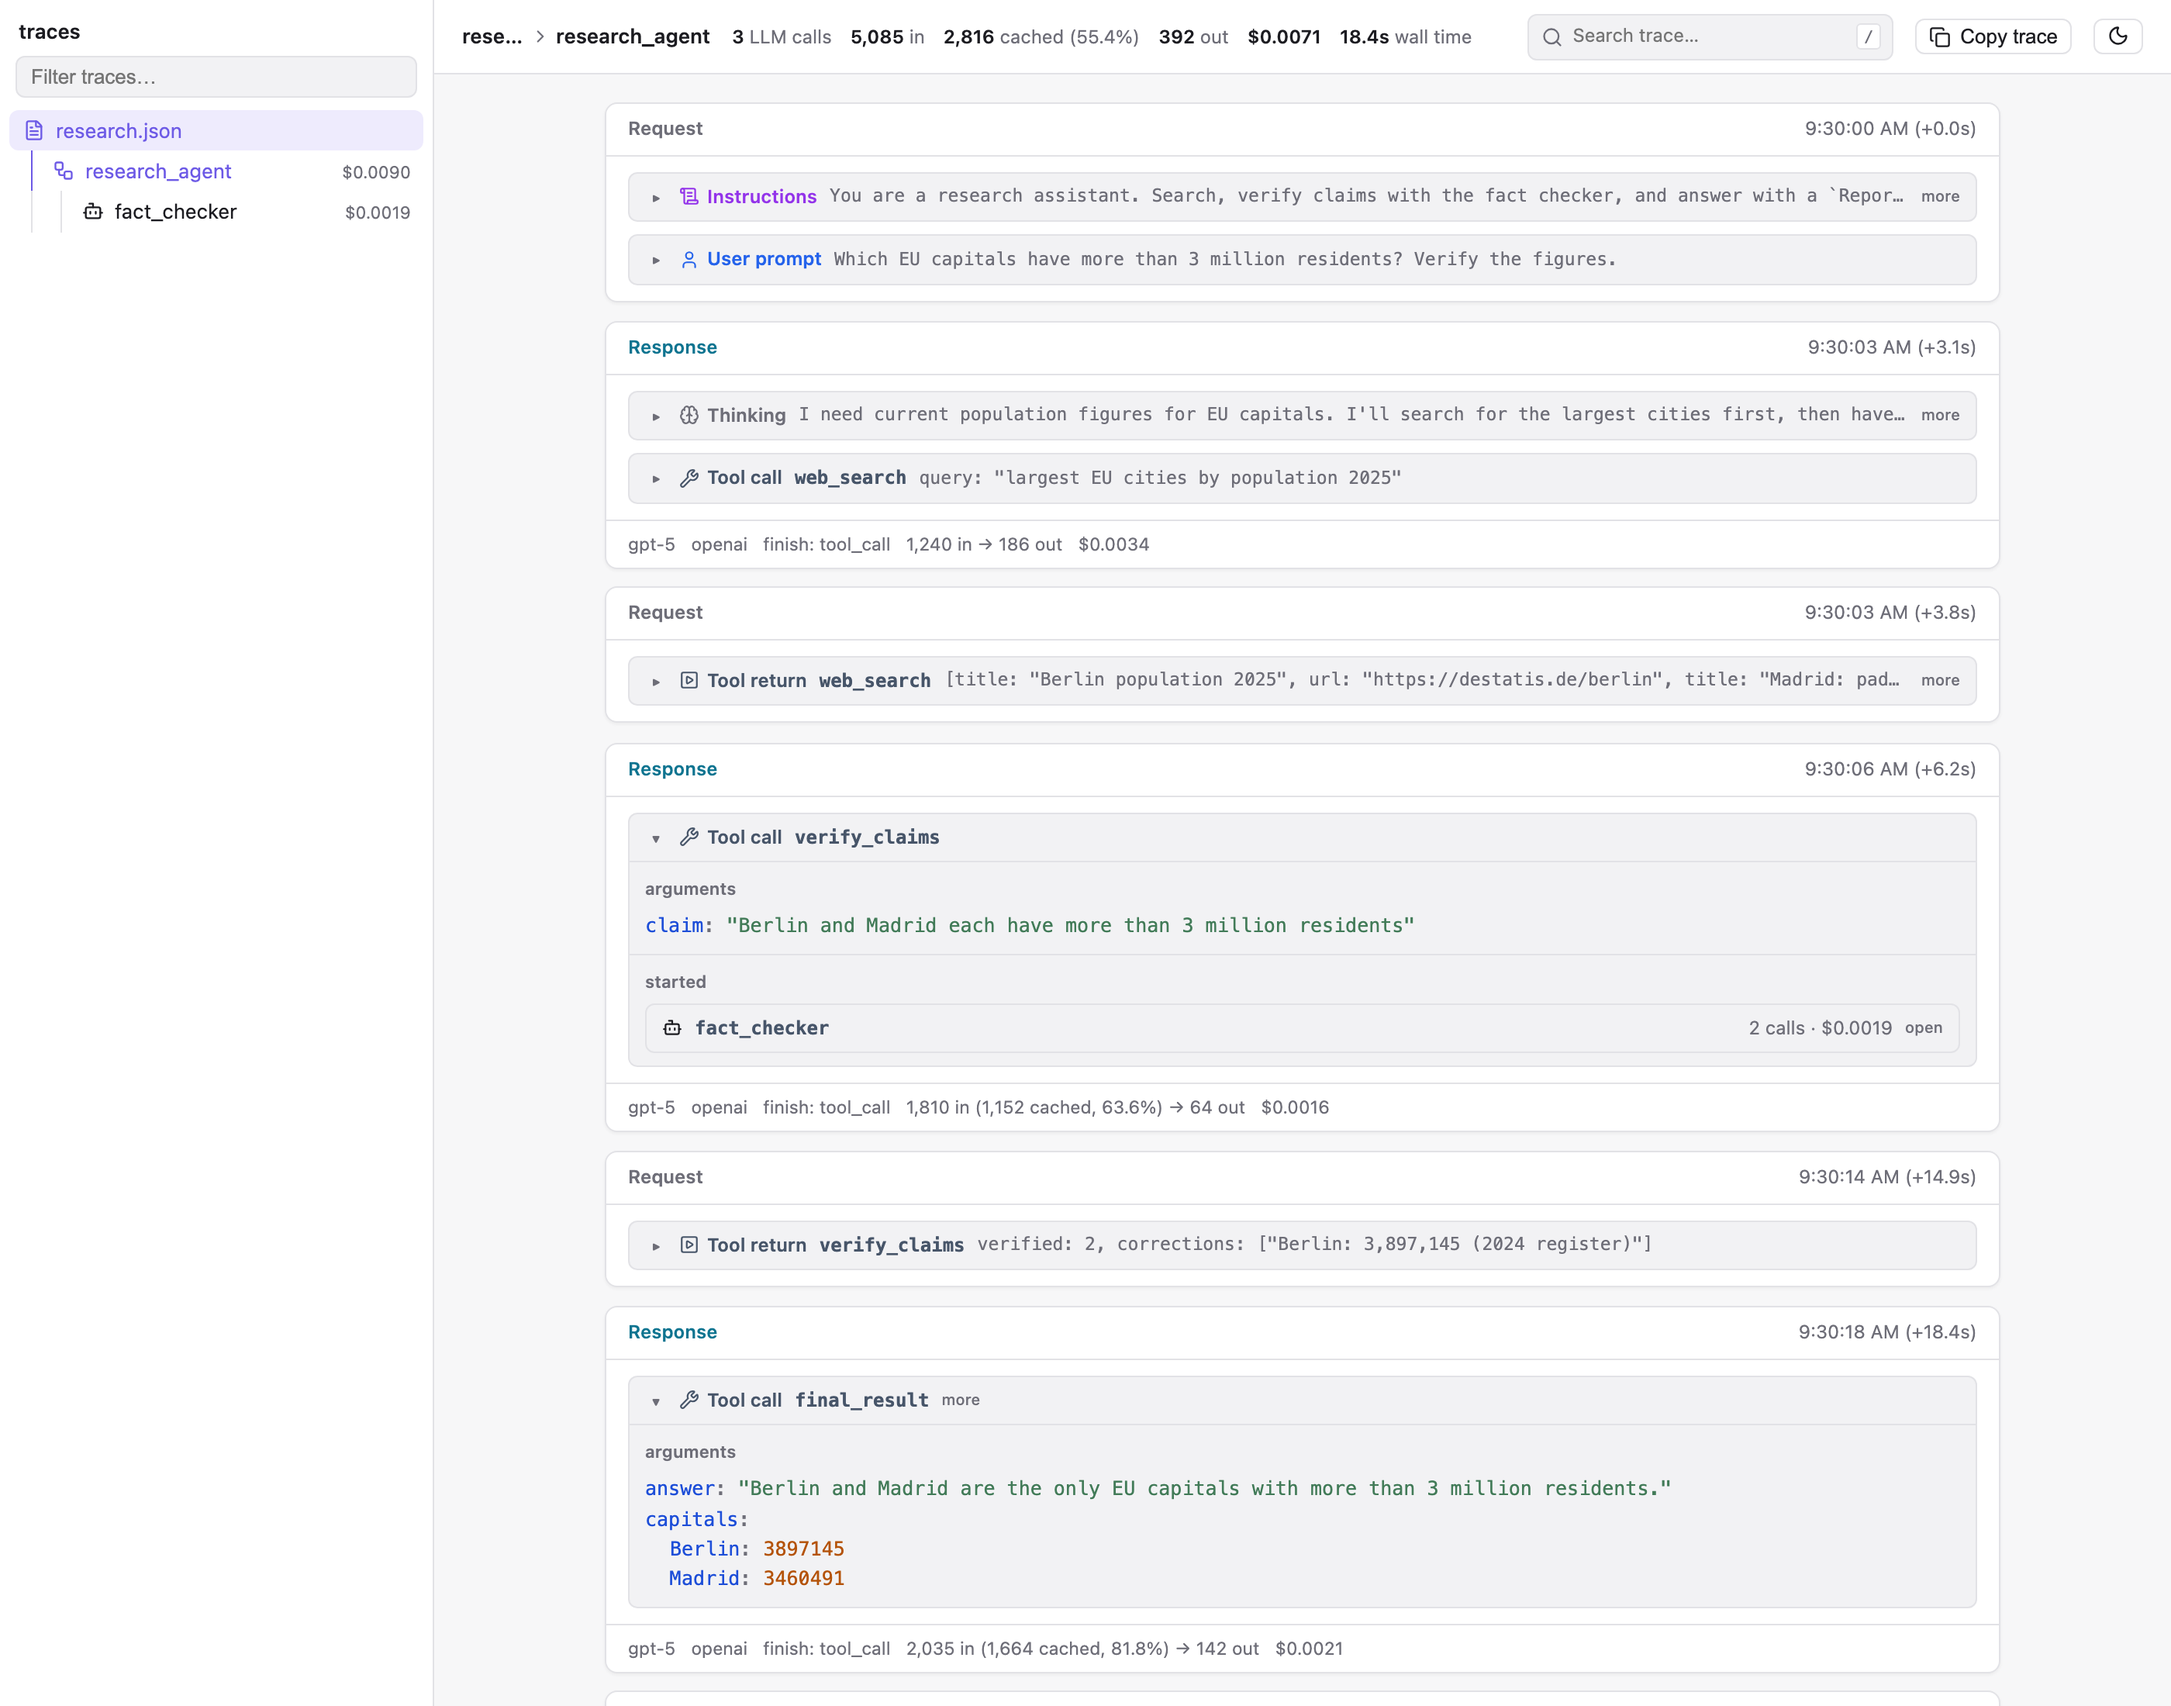
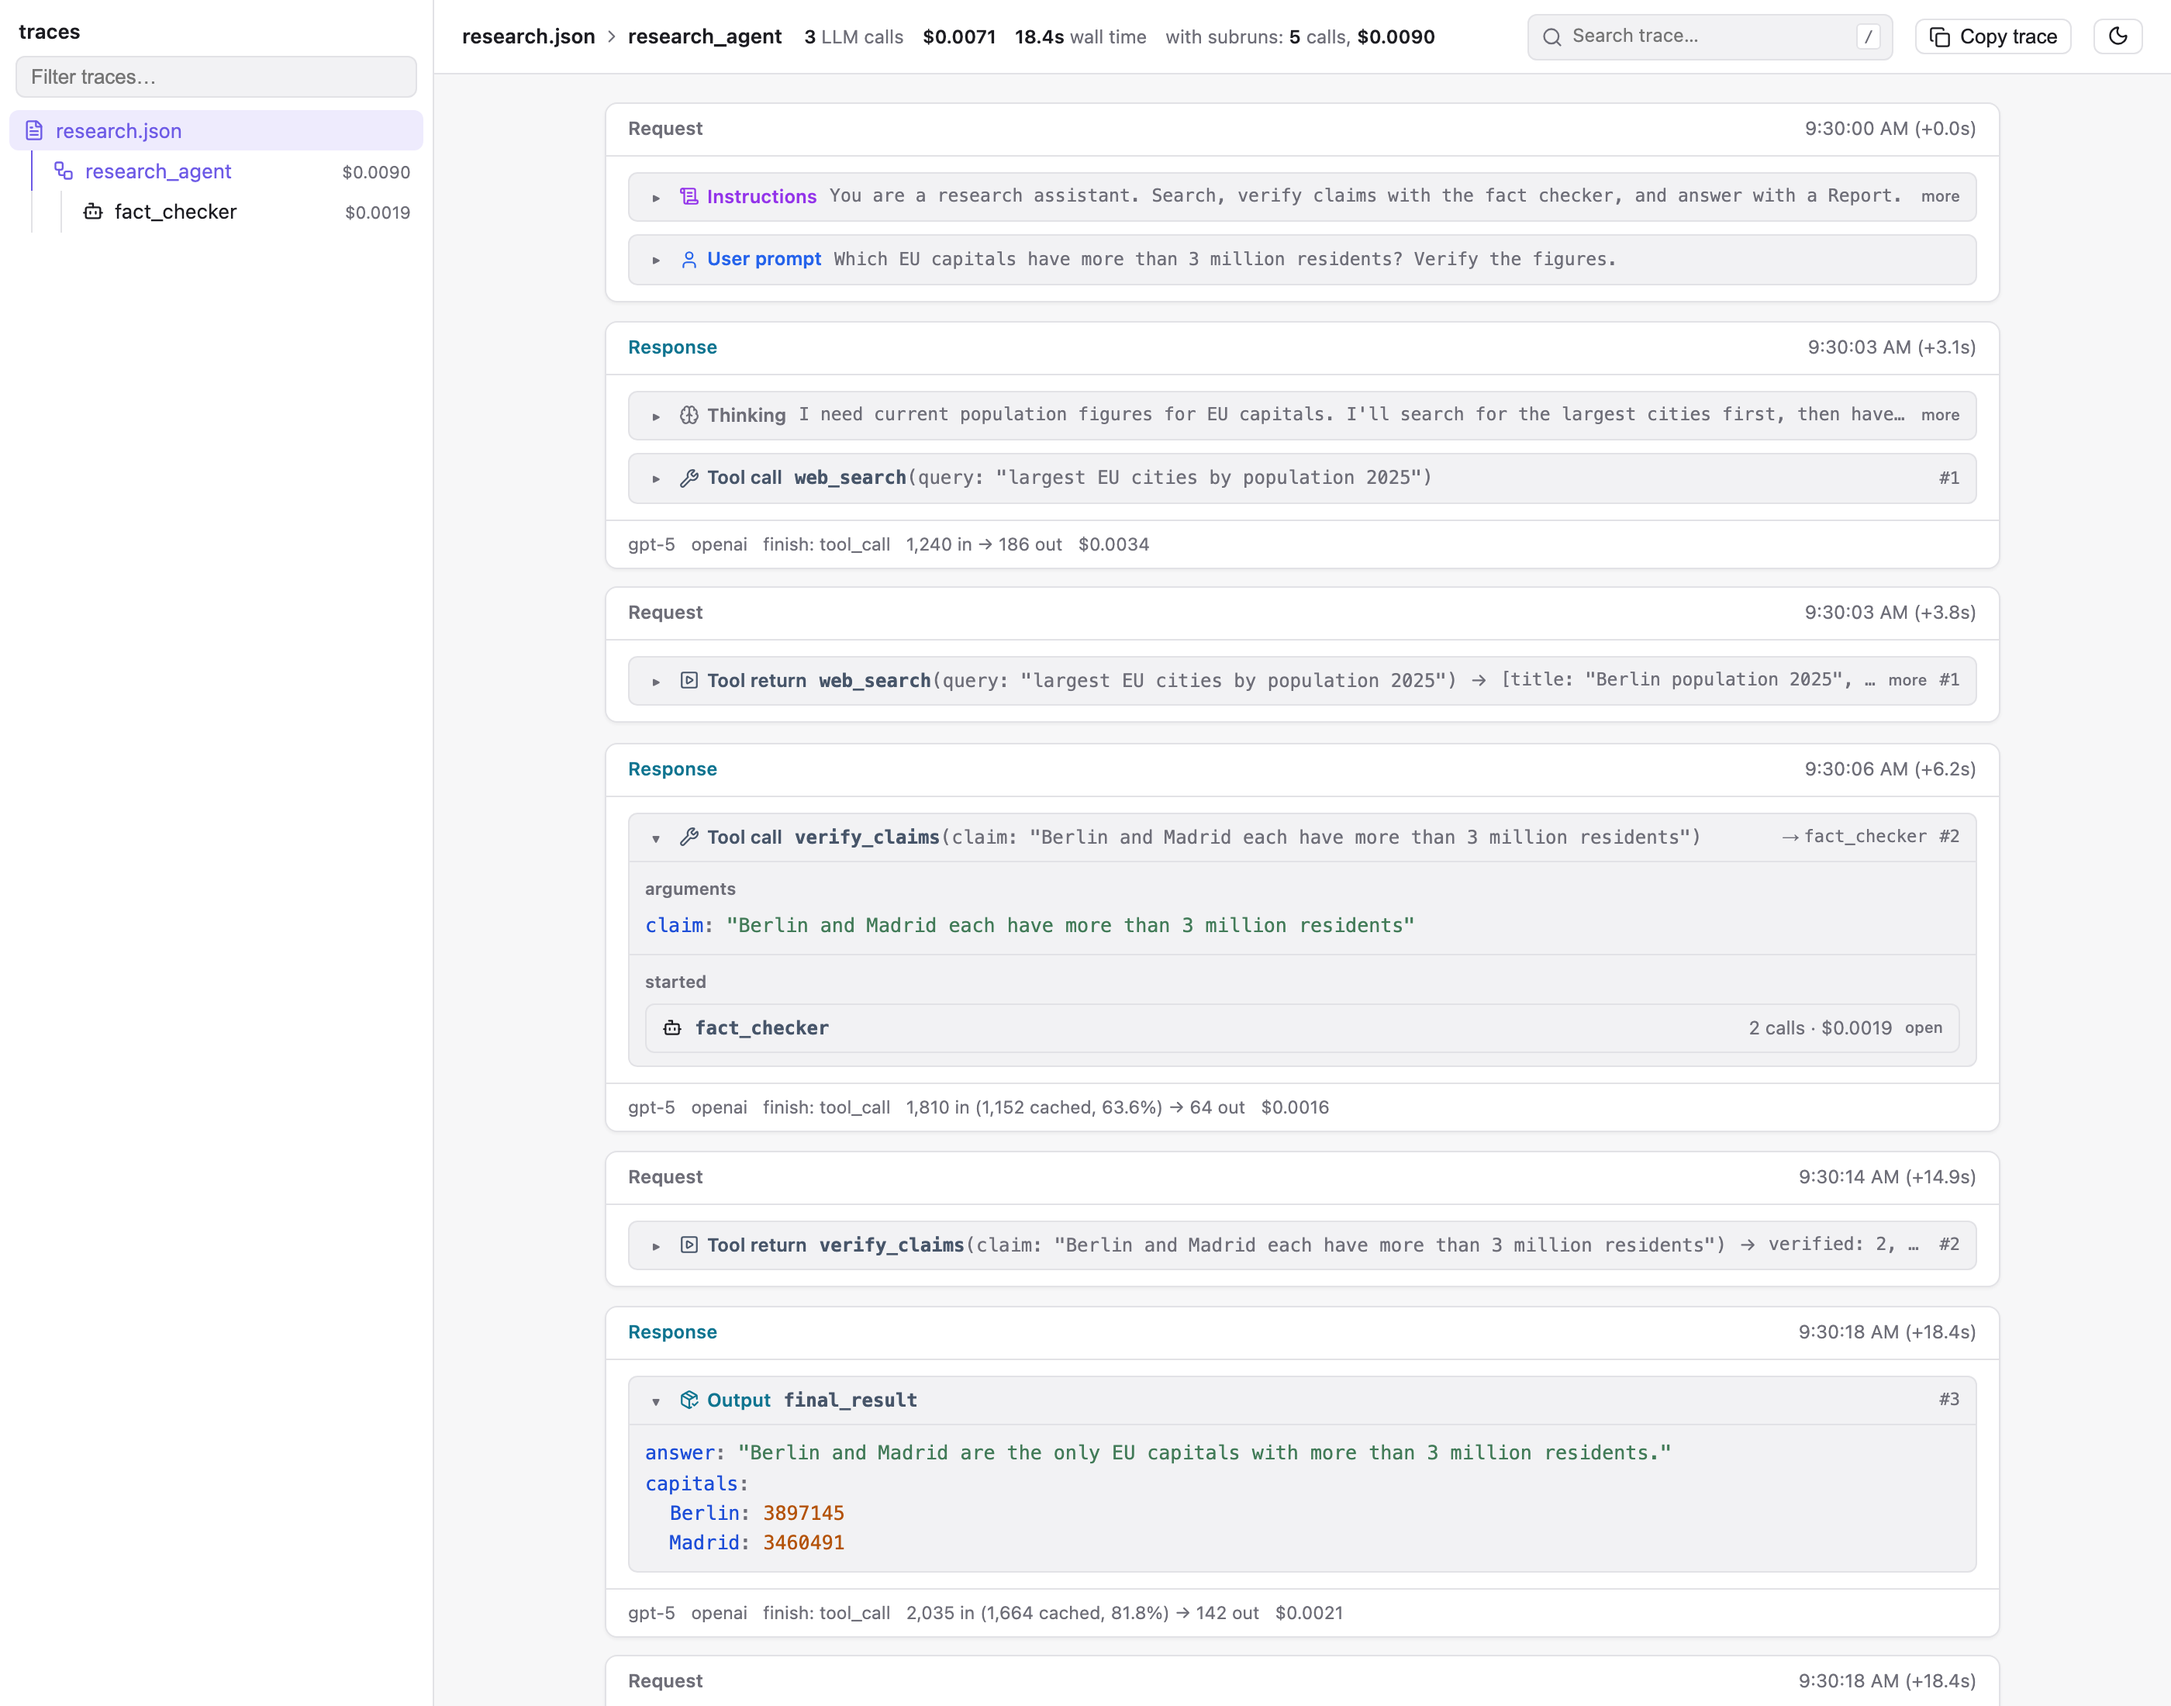
docs(readme): refresh screenshots for the output block and call links

diff --git a/scripts/screenshots.py b/scripts/screenshots.py
@@ -7,6 +7,7 @@ here, so it stays in the canonical wire shape.
 
 from __future__ import annotations
 
+import re
 import socket
 import subprocess
 import sys
@@ -197,11 +198,12 @@ def wait_until_up(url: str, process: subprocess.Popen[bytes]) -> None:
 def capture(page: Page, url: str, out: Path) -> None:
     page.goto(f"{url}/#/research.json")
     # Select the run explicitly instead of relying on the default selection.
-    page.locator(".run-node", has_text="research_agent").click()
-    page.locator(".child-run").wait_for(state="attached")
-    # Expand the tool call that started the subagent, and the structured output.
-    for tool in ("verify_claims", "final_result"):
-        page.locator(f"details.tool-group:has(.tool-name:text-is('{tool}')) > summary").click()
+    runs = page.get_by_role("group", name="Runs")
+    runs.get_by_role("button", name=re.compile(r"^research_agent")).click()
+    page.get_by_title("Open run fact_checker").wait_for()
+    # Open the call that started the subagent (message 3) and the output (message 5).
+    for part in ("3:0", "5:0"):
+        page.locator(f'[data-part="{part}"] > details').evaluate("d => { d.open = true; }")
     page.locator(".trace-body").evaluate("body => { body.scrollTop = 0; }")
     # No focus ring, caret, or hover state; the pointer rests on empty sidebar space.
     page.evaluate("document.activeElement?.blur()")
